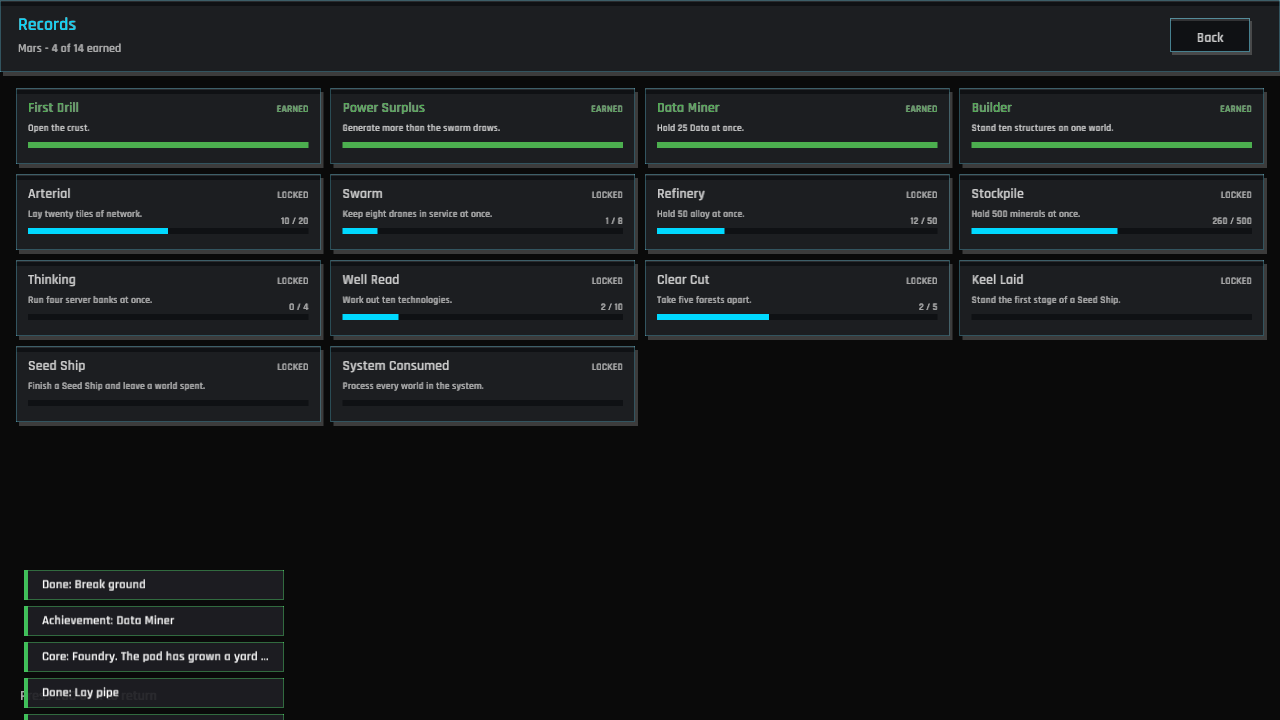
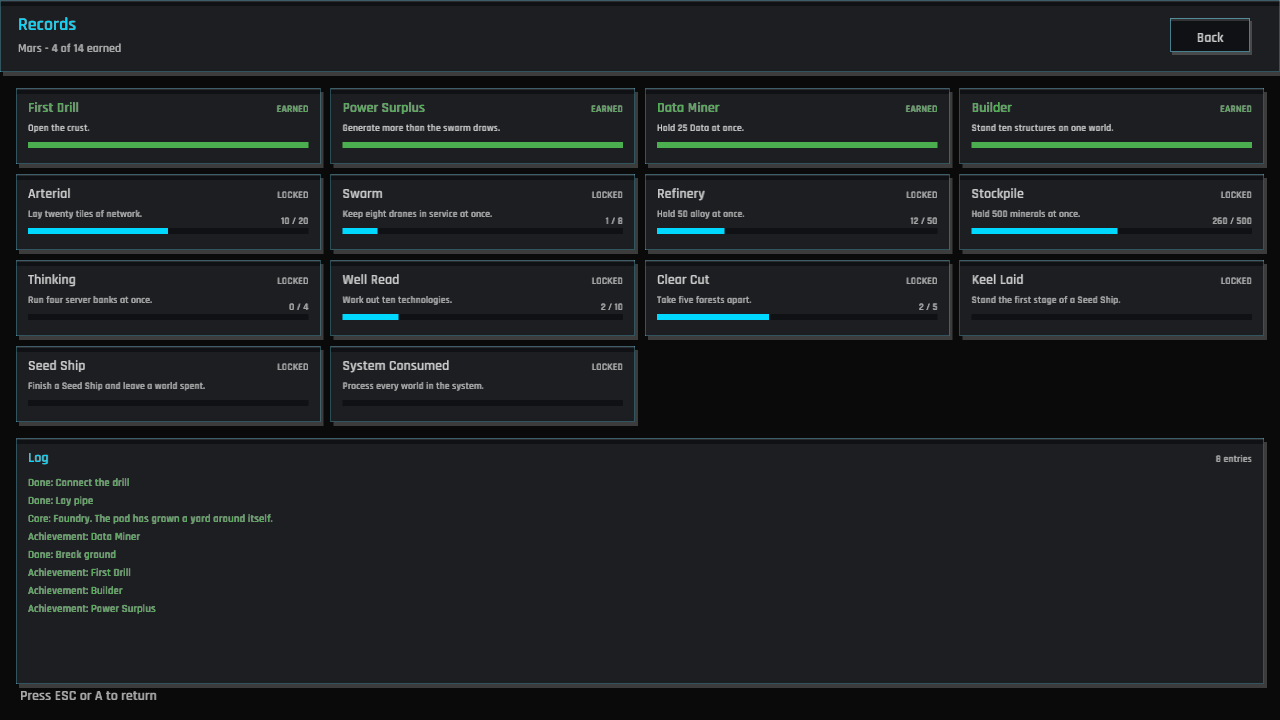
Something the swarm said once is still there when you go looking (Records log)
Every toast the game raises is now kept and read back on the Records screen, in
the room the achievement grid was leaving empty: newest first, coloured the way
it was said, scrolling once there is more of it than fits. A directive met
while the player was reading the research tree, a pod landing on a world they
had left, a stage of the Seed Ship standing — all of it used to fade unread and
be gone.

Records draws no toasts of its own any more. On every other screen a toast is
the only copy of the message; on this one it is the same message twice, sitting
on top of the panel that already has it.

The history itself is a macroquad-toolkit upgrade rather than a local one — a
notification system that forgets everything the moment it stops drawing it is
missing a capability, not a feature this game happens to want.

Changed region(s): [[0.0, 0.6417, 1.0, 1.0], [0.9375, 0.6111, 1.0, 0.6417], [0.0, 0.6111, 0.0312, 0.6417]]

diff --git a/src/screens/records_view.rs b/src/screens/records_view.rs
@@ -8,7 +8,8 @@
 use crate::state::AchievementRecord;
 use crate::ui::{draw_button_sized, draw_panel, Colors, Dimensions};
 use macroquad::prelude::*;
-use macroquad_toolkit::ui::{draw_ui_text, measure_ui_text};
+use macroquad_toolkit::notifications::{LoggedNotification, NotificationType};
+use macroquad_toolkit::ui::{draw_ui_text, measure_ui_text, ScrollArea};
 
 const HEADER_HEIGHT: f32 = 72.0;
 const CARD_H: f32 = 76.0;
@@ -16,6 +17,9 @@ const CARD_GAP: f32 = 10.0;
 /// Never fewer than this many across, and never so many that a card is a strip.
 const MIN_COLUMNS: usize = 1;
 const CARD_MIN_W: f32 = 260.0;
+const LOG_ROW_H: f32 = 18.0;
+/// The log gets whatever the grid leaves, down to this much.
+const LOG_MIN_H: f32 = 120.0;
 
 /// Actions from the records view
 #[derive(Debug, Clone, Copy, PartialEq)]
@@ -28,7 +32,12 @@ pub enum RecordsAction {
 ///
 /// A pure view: it reads the records it is handed and returns what the player
 /// asked for.
-pub fn render_records_view(world: &str, records: &[AchievementRecord]) -> RecordsAction {
+pub fn render_records_view(
+    world: &str,
+    records: &[AchievementRecord],
+    log: &[LoggedNotification],
+    scroll: &mut ScrollArea,
+) -> RecordsAction {
     clear_background(Colors::BACKGROUND);
 
     let screen_w = screen_width();
@@ -58,6 +67,8 @@ pub fn render_records_view(world: &str, records: &[AchievementRecord]) -> Record
     let columns = columns.max(MIN_COLUMNS);
     let card_w = (area_w - CARD_GAP * (columns - 1) as f32) / columns as f32;
 
+    let rows = records.len().div_ceil(columns);
+    let grid_h = rows as f32 * (CARD_H + CARD_GAP);
     for (index, record) in records.iter().enumerate() {
         let column = index % columns;
         let row = index / columns;
@@ -69,6 +80,14 @@ pub fn render_records_view(world: &str, records: &[AchievementRecord]) -> Record
             break;
         }
         draw_record(record, x, y, card_w);
+    }
+
+    // The log takes the room the grid does not want. Two halves of the same
+    // question: what the swarm has done, and what it has been told.
+    let log_y = area_y + grid_h + 6.0;
+    let log_h = screen_h - log_y - 36.0;
+    if log_h >= LOG_MIN_H {
+        draw_log(log, scroll, Rect::new(area_x, log_y, area_w, log_h));
     }
 
     draw_ui_text(
@@ -84,6 +103,66 @@ pub fn render_records_view(world: &str, records: &[AchievementRecord]) -> Record
     }
 
     action
+}
+
+/// Everything this world has been told, newest first.
+///
+/// A toast that faded while the player was reading the research tree used to be
+/// the only copy of a message; this is where the messages go instead.
+fn draw_log(log: &[LoggedNotification], scroll: &mut ScrollArea, area: Rect) {
+    draw_panel(area.x, area.y, area.w, area.h);
+    draw_ui_text("Log", area.x + 12.0, area.y + 24.0, 14.0, Colors::PRIMARY);
+    let count = format!("{} entries", log.len());
+    let count_w = measure_ui_text(&count, None, 10, 1.0).width;
+    draw_ui_text(
+        &count,
+        area.x + area.w - count_w - 12.0,
+        area.y + 24.0,
+        10.0,
+        Colors::TEXT_DIM,
+    );
+
+    let view = Rect::new(area.x + 12.0, area.y + 34.0, area.w - 24.0, area.h - 44.0);
+    if log.is_empty() {
+        draw_ui_text(
+            "Nothing has happened worth reporting.",
+            view.x,
+            view.y + 18.0,
+            10.0,
+            Colors::TEXT_DIM,
+        );
+        return;
+    }
+
+    let content_h = log.len() as f32 * LOG_ROW_H;
+    scroll.update(view, content_h);
+    let offset = scroll.offset();
+
+    for (index, entry) in log.iter().rev().enumerate() {
+        let y = view.y + 14.0 + index as f32 * LOG_ROW_H - offset;
+        if y < view.y || y > view.y + view.h {
+            continue;
+        }
+        draw_ui_text(
+            &entry.message,
+            view.x,
+            y,
+            11.0,
+            log_color(entry.notification_type),
+        );
+    }
+
+    scroll.draw_scrollbar(view, content_h);
+}
+
+/// The log says the same thing the toast said, in the same colour it said it.
+fn log_color(kind: NotificationType) -> Color {
+    match kind {
+        NotificationType::Success => Colors::SUCCESS,
+        NotificationType::Warning => Colors::WARNING,
+        NotificationType::Danger => Colors::ERROR,
+        NotificationType::Info => Colors::TEXT,
+    }
 }
 
 fn draw_record(record: &AchievementRecord, x: f32, y: f32, w: f32) {

diff --git a/src/main.rs b/src/main.rs
@@ -239,9 +239,12 @@ impl Game {
                 // The world keeps running while the player reads what it has
                 // done, the same as the map and the research tree.
                 self.advance_simulation();
-                let planet = self.campaign.current();
+                let planet = self.campaign.current_mut();
                 let records = planet.achievement_records();
-                if render_records_view(&planet.name, &records) == RecordsAction::Close {
+                let name = planet.name.clone();
+                let log = planet.notifications.history().to_vec();
+                let action = render_records_view(&name, &records, &log, &mut planet.log_scroll);
+                if action == RecordsAction::Close {
                     self.phase = GamePhase::Playing;
                 }
             }
@@ -343,9 +346,10 @@ impl Game {
         // entirely, which is exactly when a finished directive matters.
         match self.phase {
             // The ship screen fills the middle, so its toasts go in the corner.
-            // Both of these fill the middle of the screen, so their toasts go
-            // low where there is nothing to cover.
-            GamePhase::SeedShip | GamePhase::Records => {
+            // The ship screen fills the middle, so its toasts go in the corner.
+            // Records draws none at all: the log on it is every message the
+            // toasts would be repeating, and it does not fade.
+            GamePhase::SeedShip => {
                 let anchor = screens::menu_anchor_low(screen_height());
                 screens::draw_toasts(self.campaign.current(), anchor);
             }

diff --git a/src/state/achievements.rs b/src/state/achievements.rs
@@ -173,6 +173,26 @@ mod tests {
         assert!(state.achievements.is_unlocked("seed_ship"));
     }
 
+    #[test]
+    fn what_the_swarm_is_told_outlives_the_toast_that_said_it() {
+        let mut state = state();
+        state.config.resources.base_mineral_cap = 100_000.0;
+        state.resources.minerals = 500.0;
+        state.update_achievements();
+
+        // Long enough that nothing is left on screen.
+        state.notifications.update(60.0);
+        assert!(state.notifications.get_notifications().is_empty());
+        assert!(
+            state
+                .notifications
+                .history()
+                .iter()
+                .any(|entry| entry.message.contains("Stockpile")),
+            "the announcement was the only copy and it is gone"
+        );
+    }
+
     fn record(state: &PlanetState, name: &str) -> AchievementRecord {
         state
             .achievement_records()

diff --git a/src/state/game_state.rs b/src/state/game_state.rs
@@ -244,6 +244,9 @@ pub struct PlanetState {
     pub show_help: bool,
     #[serde(skip, default)]
     pub build_palette_scroll: ScrollArea,
+    /// Where the Records screen's log is scrolled to.
+    #[serde(skip, default)]
+    pub log_scroll: ScrollArea,
     /// Things worth telling the player about as they happen. Achievements,
     /// finished research and Seed Ship stages all used to land silently.
     #[serde(skip, default)]
@@ -363,6 +366,7 @@ impl PlanetState {
             camera_drag_anchor: None,
             show_help: false,
             build_palette_scroll: ScrollArea::new(),
+            log_scroll: ScrollArea::new(),
             notifications: NotificationManager::default(),
             particles: ParticleSystem::new(),
             particle_timer: 0.0,

diff --git a/TODO.md b/TODO.md
@@ -113,7 +113,7 @@ The tutorial is five steps in `assets/tutorial.json`, each with a goal the simul
 Toasts (the toolkit's `NotificationManager`) announce achievements, finished research, newly available buildings, and each Seed Ship stage. They fade in real time, so they keep fading while the world is paused.
 
 - A directive that is met says so and names its reward; one that runs out of time says that too. (The tutorial already toasted each step.)
-- There is no history: a toast missed while the player was on the research screen is gone. A scrollable log would also give the "indifferent optimizer" voice somewhere to accumulate.
+- Toasts have a history now: the manager keeps every message it raised (a `macroquad-toolkit` upgrade, since a toast that only exists while it is on screen is nobody's idea of a message system), and the Records screen reads it back as a scrolling log in the room the achievement grid does not want. Records draws no toasts of its own, because the log is already every message they would repeat. Two things it is not yet: the log belongs to the world it happened on rather than to the campaign, and it is not saved, so reloading starts the session with a blank one.
 - The right-hand panel stack is full at 720p — a fifth panel overflows the four existing ones, which is why the Seed Ship and Records both got their own screens. Any new readout needs the stack's internal layouts made height-aware first.
 - Toasts follow the player onto the research, ship and map screens, anchored where each of those screens actually has room. The main menu and the launch sequence still do not draw them, which is deliberate — neither is looking at a world.
 Settings load at startup, apply as they are changed, and are written to disk, so text scale, fullscreen and the FPS overlay survive a restart. The autosave cadence comes from `autosave_interval` rather than a constant.
